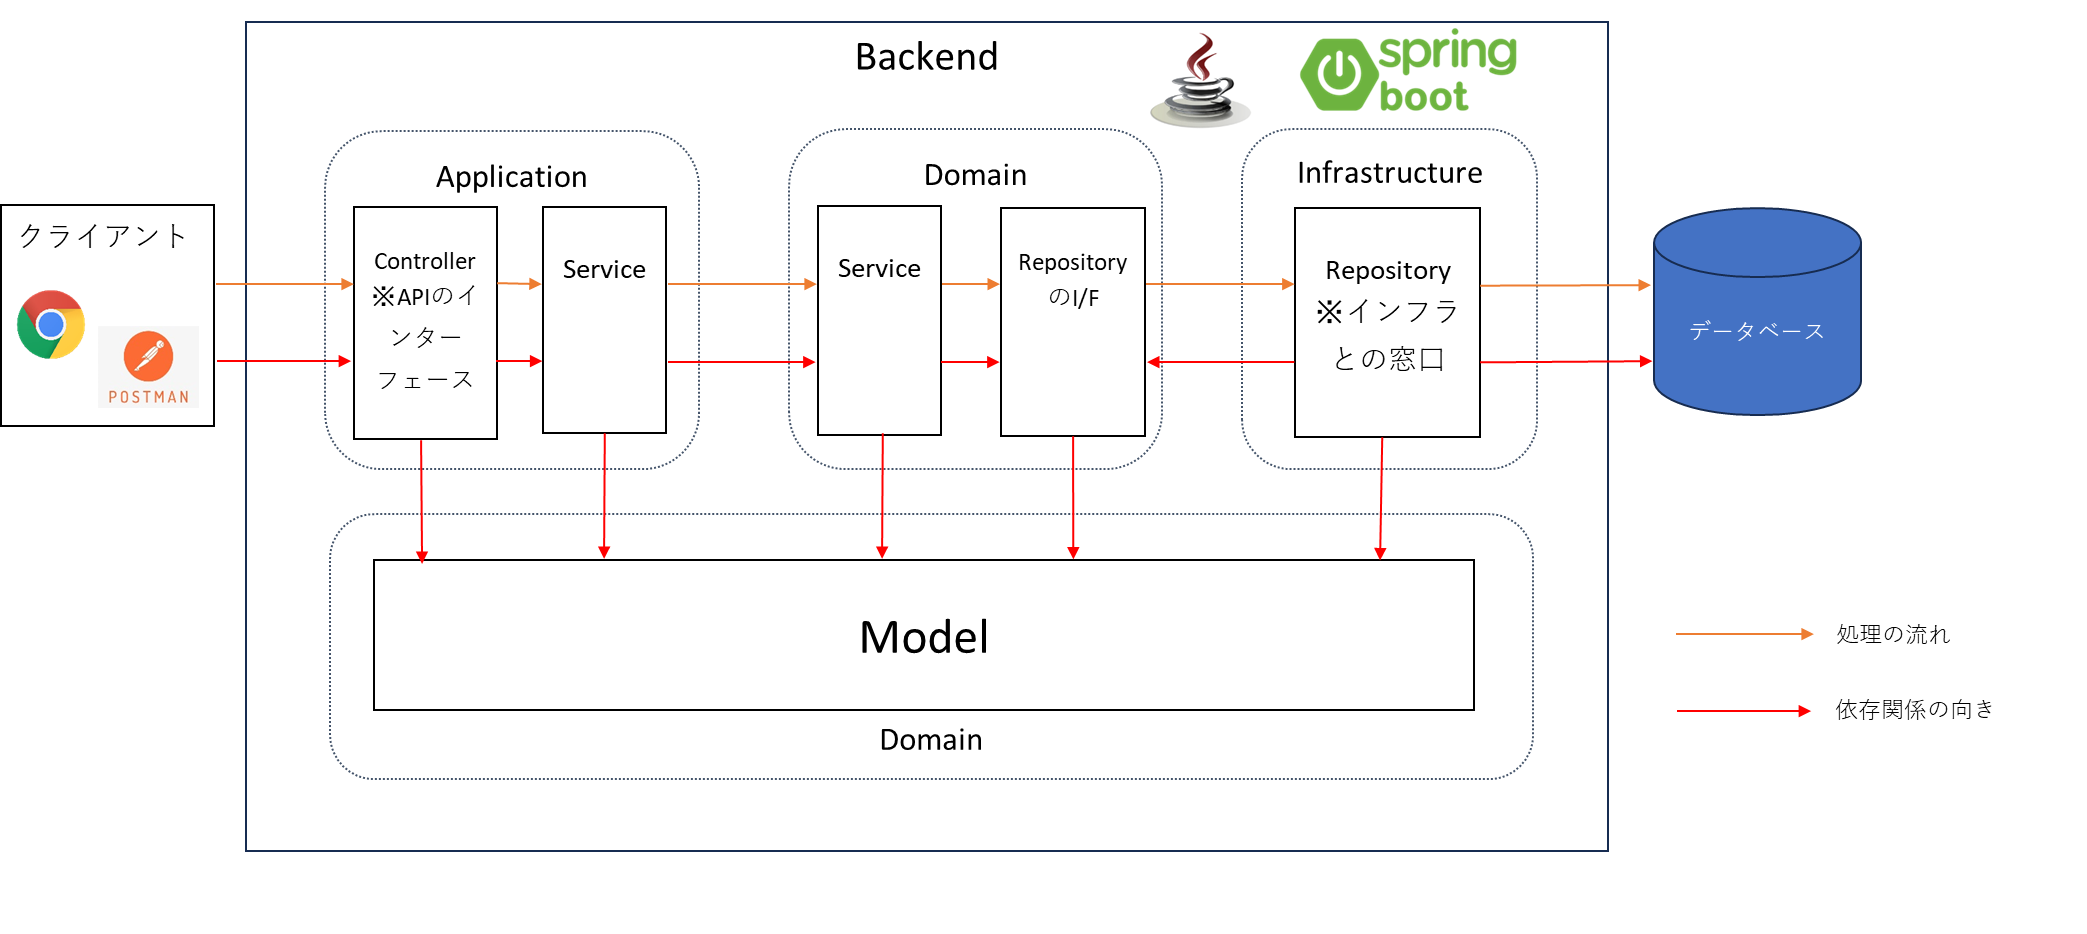
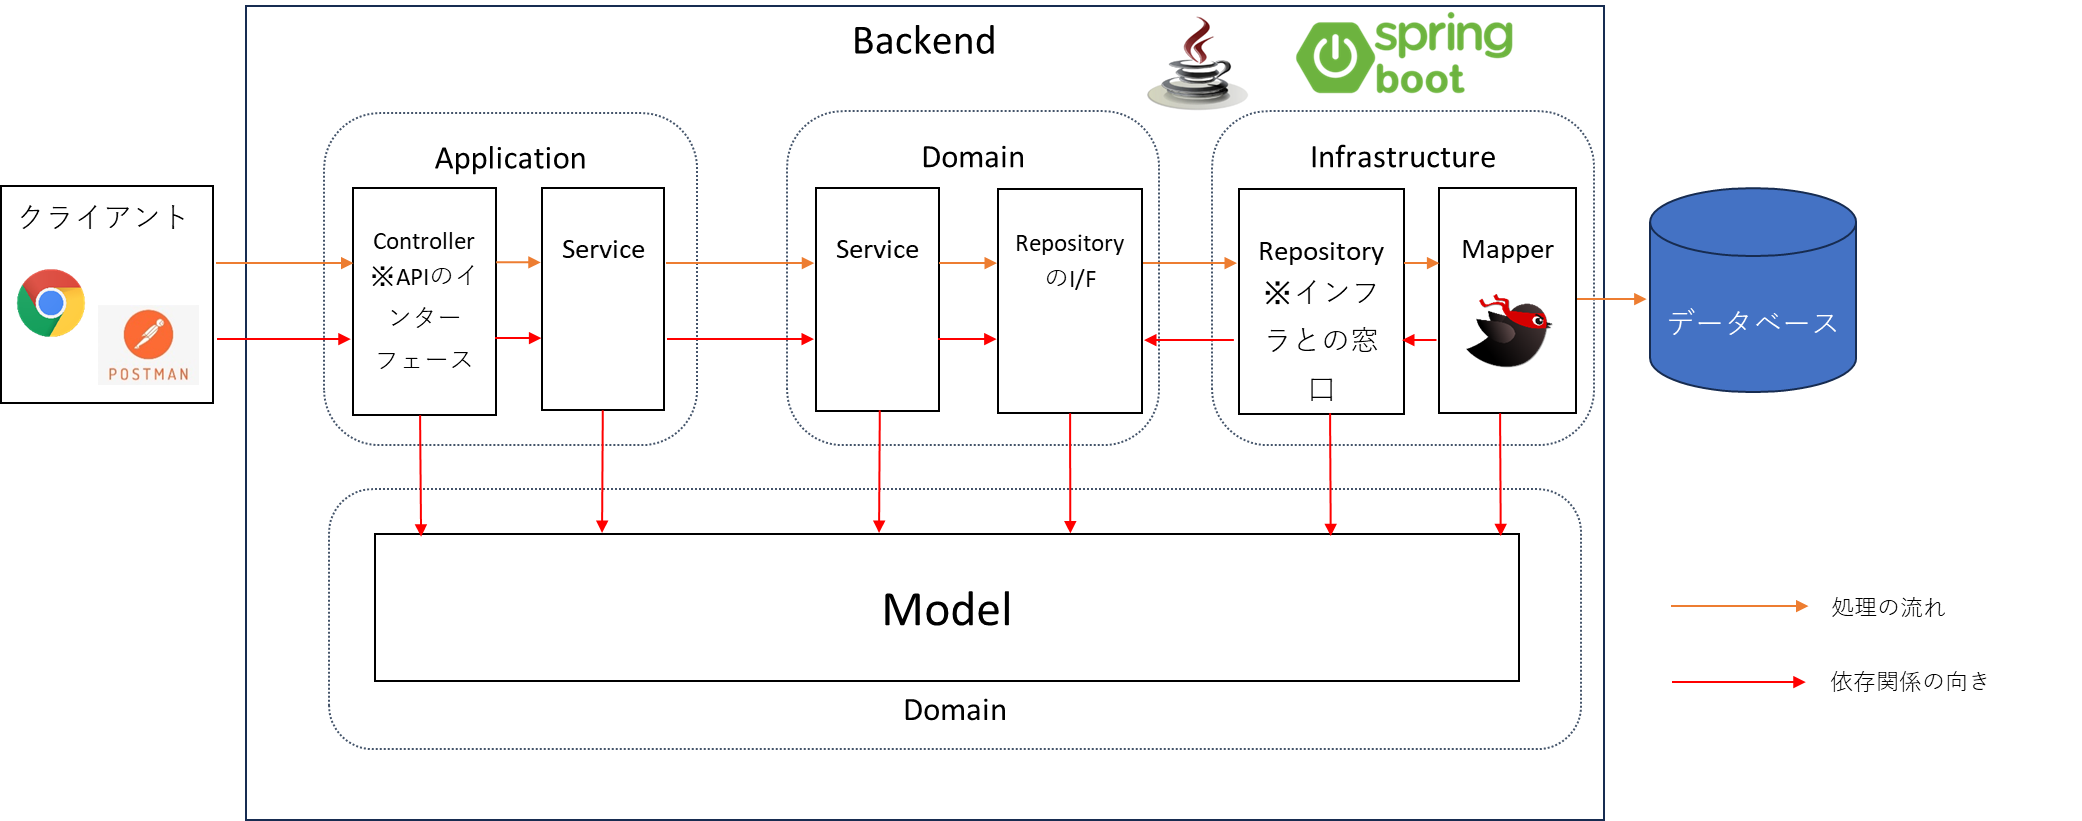
アプリケーション概要図を修正

diff --git a/README.md b/README.md
@@ -3,9 +3,8 @@
 タスクを管理するAPIです。
 タスク名とタスク詳細を登録・変更・削除ができます。
 
-## アプリケーション
+## アプリケーション概要図
 
-アーキテクチャ図
 ![アプリケーション概要図.png](docs%2F%E3%82%A2%E3%83%97%E3%83%AA%E3%82%B1%E3%83%BC%E3%82%B7%E3%83%A7%E3%83%B3%E6%A6%82%E8%A6%81%E5%9B%B3.png)
 
 ## 開発環境
